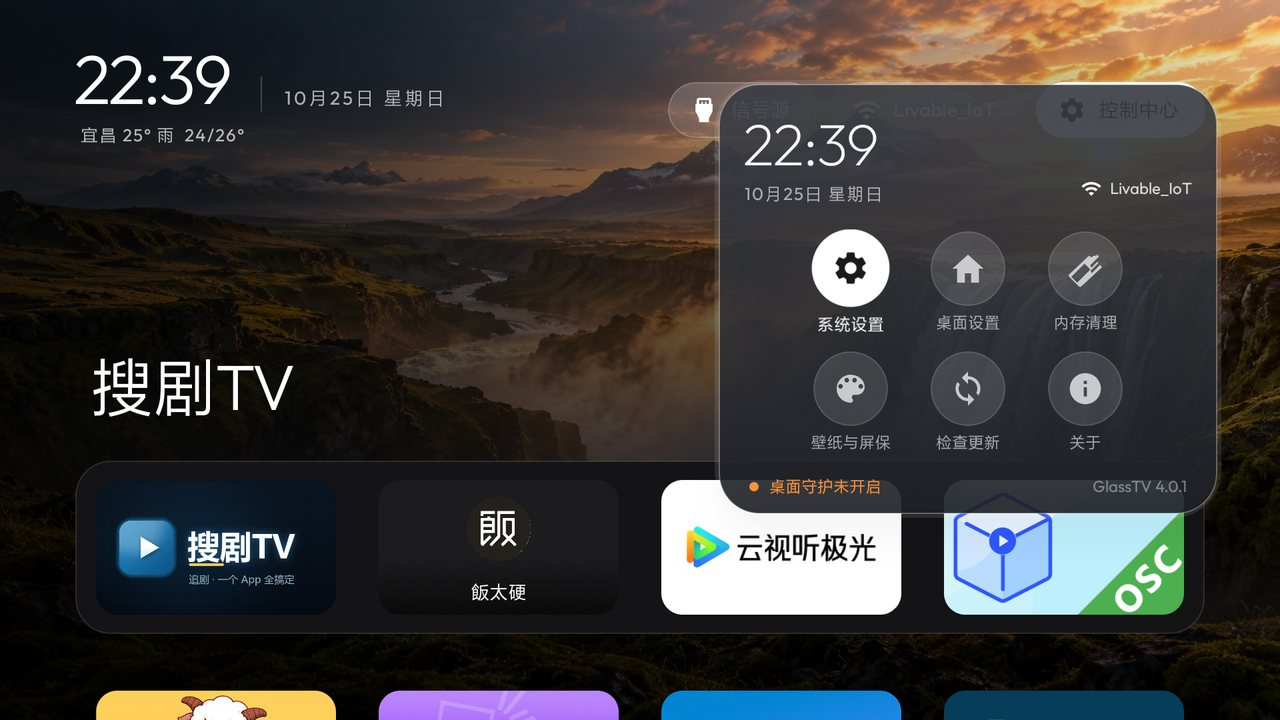
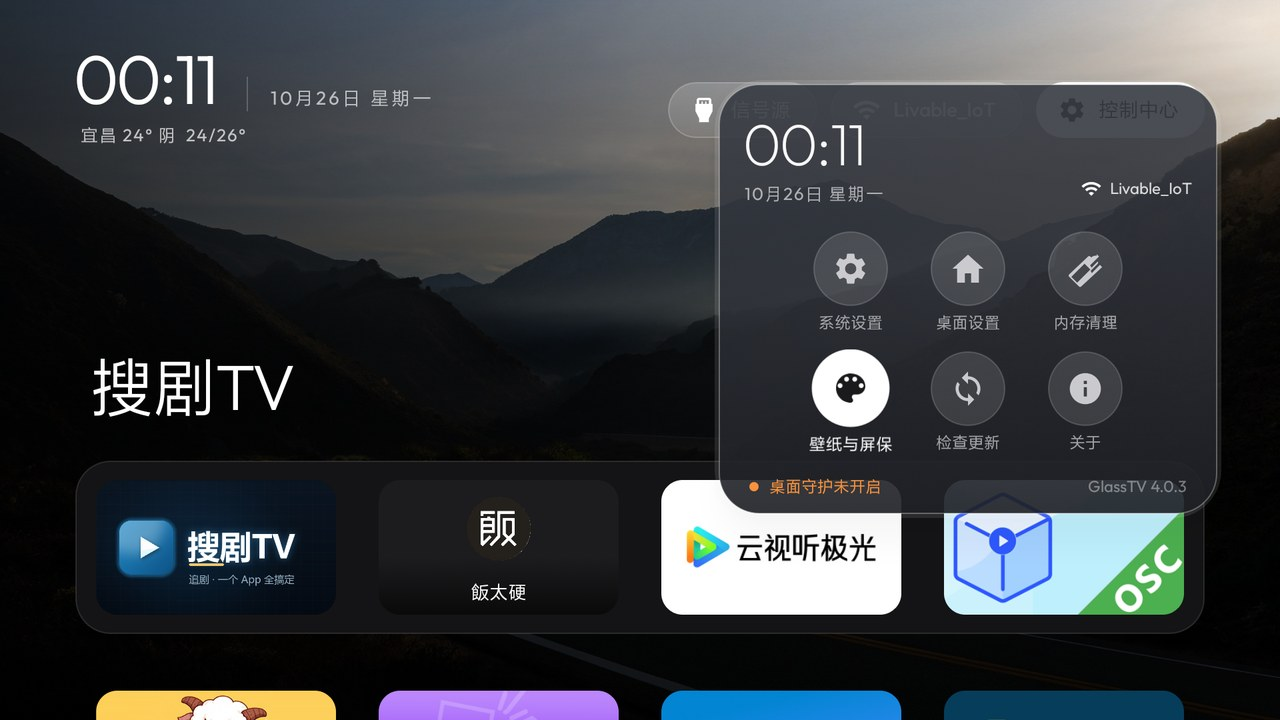
4.0.3：新增翻页时钟屏保，更新桌面/控制中心/壁纸页/屏保页/翻页钟截图与文案

diff --git a/index.html b/index.html
@@ -65,7 +65,7 @@
       </article>
       <article class="card">
         <h3>控制中心</h3>
-        <p>信号源和网络常驻右上角，点开就用；面板里六个入口：系统设置、桌面设置、内存清理、壁纸与屏保、检查更新、关于。</p>
+        <p>信号源和网络常驻右上角，点开就用；面板里六个入口：系统设置、桌面设置、内存清理、壁纸与屏保、检查更新、关于。屏保有细字时钟、翻页时钟、必应每日三种。</p>
       </article>
       <article class="card">
         <h3>11 张内置壁纸</h3>
@@ -103,8 +103,12 @@
         <figcaption>壁纸与屏保 · 壁纸页</figcaption>
       </figure>
       <figure>
-        <img src="img/wallpaper-saver.jpg" alt="壁纸与屏保：屏保页的时间与必应每日两张卡片、屏保开关与换图间隔" loading="lazy" width="1280" height="720">
+        <img src="img/wallpaper-saver.jpg" alt="壁纸与屏保：屏保页的时间、翻页时钟、必应每日三张卡片与屏保开关" loading="lazy" width="1280" height="720">
         <figcaption>壁纸与屏保 · 屏保页</figcaption>
+      </figure>
+      <figure>
+        <img src="img/flip-clock.jpg" alt="翻页时钟屏保：两块大翻页牌显示时间，下面天气地区与年月日周几" loading="lazy" width="1280" height="720">
+        <figcaption>翻页时钟屏保</figcaption>
       </figure>
       <figure>
         <img src="img/settings.jpg" alt="桌面设置：布局、时间与天气、动效" loading="lazy" width="1280" height="720">
@@ -169,7 +173,7 @@
     </details>
     <details>
       <summary>精简版少了什么？</summary>
-      <p>去掉必应每日壁纸、视频壁纸、在线壁纸这些吃内存的功能，其余（壁纸、自动清理、控制中心、设置）都在。</p>
+      <p>去掉必应每日壁纸、视频壁纸、在线壁纸这些吃内存的功能。壁纸选择、时间屏保、翻页时钟、自动清理、控制中心、设置都还在。</p>
     </details>
     <details>
       <summary>天气不显示 / 城市不对？</summary>
